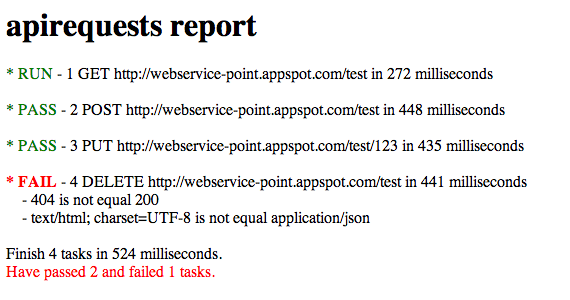
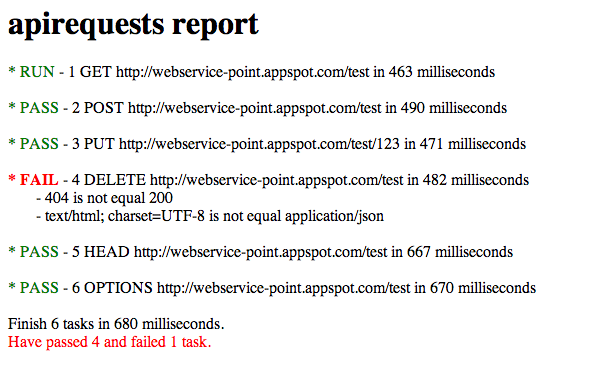
adjust README, can now run in a loop and add more HTTP methods

Changed region(s): [[0.0, 0.45, 0.9246, 0.96], [0.0, 0.03, 0.8947, 0.42]]

diff --git a/index.js b/index.js
@@ -1,10 +1,10 @@
-var fs = require('fs');
 var request = require("request");
 var colors = require('colors');
 /**
  * apirequests
  */
 var apirequests = function apirequests(rules, opts) {
+    // set defaults
     if (!rules) { rules = []; }
     if (!opts) { opts = {}; }
     opts['output'] = opts['output'] || 'print';
@@ -13,9 +13,10 @@ var apirequests = function apirequests(rules, opts) {
     // set some variables
     var tasks = [];
     var responses = [];
-    var methods = ['GET','POST','PUT','DELETE'];
+    var methods = ['GET','POST','PUT','DELETE','HEAD','OPTIONS'];
     var startTime = 0;
-    // build the tasks from rules
+    var loopCount = 1;
+    // build the tasks from rules param
     var i, options;
     for(i = 0; i < rules.length; i++) {
         options = {};
@@ -46,10 +47,9 @@ var apirequests = function apirequests(rules, opts) {
         if (options['method'] && options['uri']) {
             tasks.push(options);    
         } else {
-            console.log(colors.red('* SKIP') + ' - ', rules[i].method + ' ' + rules[i].uri);
+            console.log(colors.red('* SKIP') + ' - ' + rules[i].method + ' ' + rules[i].uri);
         }        
     }
-
     /**
      * check uri
      */
@@ -60,8 +60,7 @@ var apirequests = function apirequests(rules, opts) {
     /**
      * collect the responses
      */
-    function getResponse(response) {
-        response['reqend'] = (+new Date());
+    function getResponse(response) {        
         responses.push(response);
     }
     /**
@@ -72,6 +71,7 @@ var apirequests = function apirequests(rules, opts) {
             if (err) {
                 cb(err);
             } else {
+                res['reqend'] = (+new Date());
                 cb(res, body);
             }
         });
@@ -101,19 +101,24 @@ var apirequests = function apirequests(rules, opts) {
         for(var i = 0; i < results.length; i++) {
             var requestTime = Math.round((results[i].result.reqend - results[i].task.reqstart));
             if (!results[i].output['pass'] && results[i].task.response) {
-                console.log(colors.red('* FAIL') + ' - ', results[i].task.num, results[i].task.method, results[i].task.uri, 'in ' + requestTime + ' milliseconds', results[i].output.msg);                    
+                console.log(colors.red('* FAIL') + ' - ' + results[i].task.num, results[i].task.method, results[i].task.uri, 'in ' + requestTime + ' milliseconds', results[i].output.msg);                    
                 failed += 1;
             } else {
                 if (results[i].task.response) {
-                    console.log(colors.green('* PASS') + ' - ', results[i].task.num, results[i].task.method, results[i].task.uri, 'in ' + requestTime + ' milliseconds', results[i].output.msg);
+                    console.log(colors.green('* PASS') + ' - ' + results[i].task.num, results[i].task.method, results[i].task.uri, 'in ' + requestTime + ' milliseconds', results[i].output.msg);
                     passed += 1;
                 } else {
-                    console.log(colors.green('* RUN') + ' - ', results[i].task.num, results[i].task.method, results[i].task.uri, 'in ' + requestTime + ' milliseconds', results[i].output.msg);
+                    console.log(colors.green('* RUN') + ' - ' + results[i].task.num, results[i].task.method, results[i].task.uri, 'in ' + requestTime + ' milliseconds', results[i].output.msg);
                 }                        
             }
         }
         console.log('Finish ' + results.length + ' tasks in ' + difference + ' milliseconds.');
-        var msg = 'Have passed ' + passed + ' and failed ' + failed + ' tasks.\n';
+        var msg = 'Have passed ' + passed + ' and failed ' + failed;
+        if (failed === 1) {
+            msg += ' task.\n'; 
+        } else {
+            msg += ' tasks.\n';
+        }
         if (failed > 0) {
             console.log(colors.red(msg));
         } else {
@@ -132,7 +137,7 @@ var apirequests = function apirequests(rules, opts) {
             var requestTime = Math.round((results[i].result.reqend - results[i].task.reqstart));
             if (!results[i].output['pass'] && results[i].task.response) {
                 content += '<div><strong class="error">* FAIL</strong> - ' + results[i].task.num + ' ' + results[i].task.method + ' ' + results[i].task.uri + ' in ' + requestTime + ' milliseconds';
-                content += results[i].output.msg.replace(/\n/g, '<br>').replace(/ /g, '&nbsp;') + '</div>';
+                content += results[i].output.msg.replace(/\n/g, '<br>').replace(/ /g, '&nbsp;') + '</div><br>';
                 failed += 1;
             } else {
                 if (results[i].task.response) {
@@ -145,15 +150,20 @@ var apirequests = function apirequests(rules, opts) {
                 }                        
             }
         }
-        content += '<br><div>Finish ' + results.length + ' tasks in ' + difference + ' milliseconds.</div>';
-        var msg = '<div>Have passed ' + passed + ' and failed ' + failed + ' tasks.</div>';
+        content += '<div>Finish ' + results.length + ' tasks in ' + difference + ' milliseconds.</div>';
+        var msg = '<div>Have passed ' + passed + ' and failed ' + failed;
+        if (failed === 1) {
+            msg += ' task.</div>'; 
+        } else {
+            msg += ' tasks.</div>';
+        }
         if (failed > 0) {
             content += '<div><span class="error">' + msg + '</span></div>';
         } else {
             content += '<div><span class="pass">' + msg + '</span></div>';
         }
         content += '</body></html>';
-        fs.writeFile(opts['outputpath'] + opts['outputfile'], content, function (err) {
+        require('fs').writeFile(opts['outputpath'] + opts['outputfile'], content, function (err) {
             if (err) throw err;
             console.log('Report file ' + opts['outputpath'] + opts['outputfile'] + ' saved!');
         });
@@ -169,21 +179,33 @@ var apirequests = function apirequests(rules, opts) {
                 results[i].output['pass'] = false;
                 // status code
                 if (results[i].task.response.statuscode !== results[i].result.statusCode) {
-                    results[i].output['msg'] += '    - ' + results[i].task.response.statuscode + ' is not equal ' + results[i].result.statusCode + '\n';
+                    results[i].output['msg'] += '       - ' + results[i].task.response.statuscode + ' is not equal ' + results[i].result.statusCode + '\n';
                 }                    
                 // headers                    
                 if (results[i].task.response.headers) {
-                    if (results[i].task.response.headers['contenttype'] !== results[i].result.headers['content-type']) {
-                        results[i].output['msg'] += '    - ' + results[i].task.response.headers['contenttype'] + ' is not equal ' + results[i].result.headers['content-type'] + '\n';
+                    // contenttype
+                    if (results[i].task.response.headers['contenttype']) {
+                        if (results[i].task.response.headers['contenttype'] !== results[i].result.headers['content-type']) {
+                            results[i].output['msg'] += '       - ' + results[i].task.response.headers['contenttype'] + ' is not equal ' + results[i].result.headers['content-type'] + '\n';
+                        }
                     }
-                    if (results[i].task.response.headers['contentlength'] !== results[i].result.headers['content-length']) {
-                        results[i].output['msg'] += '    - ' + results[i].task.response.headers['contentlength'] + ' is not equal ' + results[i].result.headers['content-length'] + '\n';
+                    // contentlength
+                    if (results[i].task.response.headers['contentlength']) {
+                        if (results[i].task.response.headers['contentlength'] !== results[i].result.headers['content-length']) {
+                            results[i].output['msg'] += '       - ' + results[i].task.response.headers['contentlength'] + ' is not equal ' + results[i].result.headers['content-length'] + '\n';
+                        }
+                    }
+                    // cachecontrol
+                    if (results[i].task.response.headers['cachecontrol']) {
+                        if (results[i].task.response.headers['cachecontrol'] !== results[i].result.headers['cache-control']) {
+                            results[i].output['msg'] += '       - ' + results[i].task.response.headers['cachecontrol'] + ' is not equal ' + results[i].result.headers['cache-control'] + '\n';
+                        }
                     }
                 }
                 // body
                 if (results[i].task.response.data) {
                     if (results[i].task.response.data !== results[i].result.body) {
-                        results[i].output['msg'] += '    - ' + results[i].task.response.data + ' is not equal ' + results[i].result.body + '\n';
+                        results[i].output['msg'] += '       - ' + results[i].task.response.data + ' is not equal ' + results[i].result.body + '\n';
                     }
                 }
                 if (results[i].output['msg'] === '\n') {
@@ -205,14 +227,29 @@ var apirequests = function apirequests(rules, opts) {
             } else if(opts['output'] === 'html') {
                 writeResults(results, opts);                
             }
+            if (opts['loop']) {
+                loopCount += 1;
+                startTime = (+new Date());
+                if (opts['output'] === 'print') {                
+                    console.log('Start again with', tasks.length, 'Tasks', 'made ' + loopCount + ' runs', '\n');
+                }
+                responses = [];                
+                for(var i = 0; i < tasks.length; i++) {
+                    tasks[i]['reqstart'] = (+new Date());
+                    call(tasks[i], function(response, body) {
+                        getResponse(response);
+                    });
+                }
+                checkResponses(opts);
+            }
         } else {
-            setTimeout(function(){checkResponses(opts)}, 100);
+            setTimeout(function(){checkResponses(opts)}, 10);
         }
     }
     
     return {
         /**
-         *
+         * return run method to start the requests
          */
         run: function() {
             startTime = (+new Date());            

diff --git a/README.md b/README.md
@@ -1,11 +1,11 @@
 # apirequests
 
-Call several API resources in a very simple way with defined rules.  
-Test several backends if the resources are responsing correctly.
+Call several API resources in a simple way with your defined rules.  
+Test several backends if resources are responsing like expected.
 
 [![NPM](https://nodei.co/npm/apirequests.png?downloads=true&downloadRank=true&stars=true)](https://nodei.co/npm/apirequests/)
 
-## Simple to use
+## How to use
 
 ```javascript
 var apirequests = require('apirequests');
@@ -17,14 +17,26 @@ var apitest = apirequests(rules, options);
 apitest.run();
 ```
 
-The options are optional, per default it gets print out.
-It's also possible to define outputfile and outputpath to save the html file.
+The options are optional, per default the result be print out.
+It's also possible to define `outputfile` and `outputpath` to save the html file.  
+
+When the requests should run in a `loop` set it with a timeout value.
+
+```javascript
+var apirequests = require('apirequests');
+
+var rules = [...];
+
+var apitest = apirequests(rules, {loop: 20});
+apitest.run();
+```
 
 ## Define rules
 
-A rule take basically a uri to run, a method is optinal the default is GET.  
-To send data, define a form object inside of the rule.  
-To test the response, define inside of the rule a response object. The response object can have a statuscode, data and a headers object, this object can have a contenttype and a contentlength.
+A rule take basically a `uri` to run, a `method` is optinal, the default is GET. To send headers define them as `headers` object and define a `form` object inside of the rule to send data.  
+To test the response, define inside of the rule a response object. The response object can have a `statuscode`, `data` and a `headers` object, this object can have a `contenttype`, `contentlength` and a `cachecontrol`.
+
+Some examples for defining rules.
 
 ```javascript
 {
@@ -37,6 +49,9 @@ To test the response, define inside of the rule a response object. The response 
     form: {
         name: "apirequests",
         test: "post"
+    },
+    headers: { 
+        'Content-Type': 'application/x-www-form-urlencoded'
     },
     response: {
         statuscode: 200,
@@ -68,11 +83,11 @@ To test the response, define inside of the rule a response object. The response 
 
 ## Results
 
-Per default the result gets print out and look like the picture below.
+Per default the result be print out and look like the picture below.
 
 ![Console](https://raw.githubusercontent.com/DBProductions/apirequests/master/screenshots/console.png)
 
-When the options object gets set to output equal html a report.html file gets created.
+When the options object gets set with output equal html a report.html file gets created.
 
 ![HTML](https://raw.githubusercontent.com/DBProductions/apirequests/master/screenshots/html.png)
 
